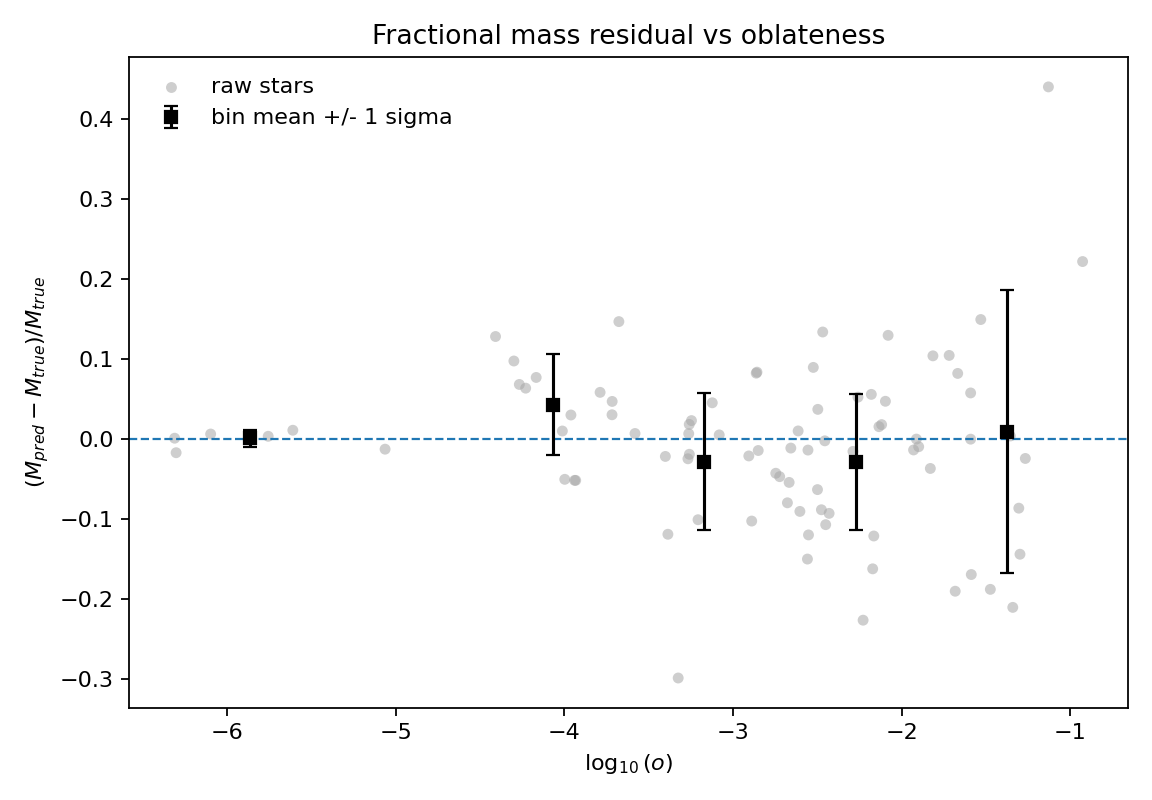
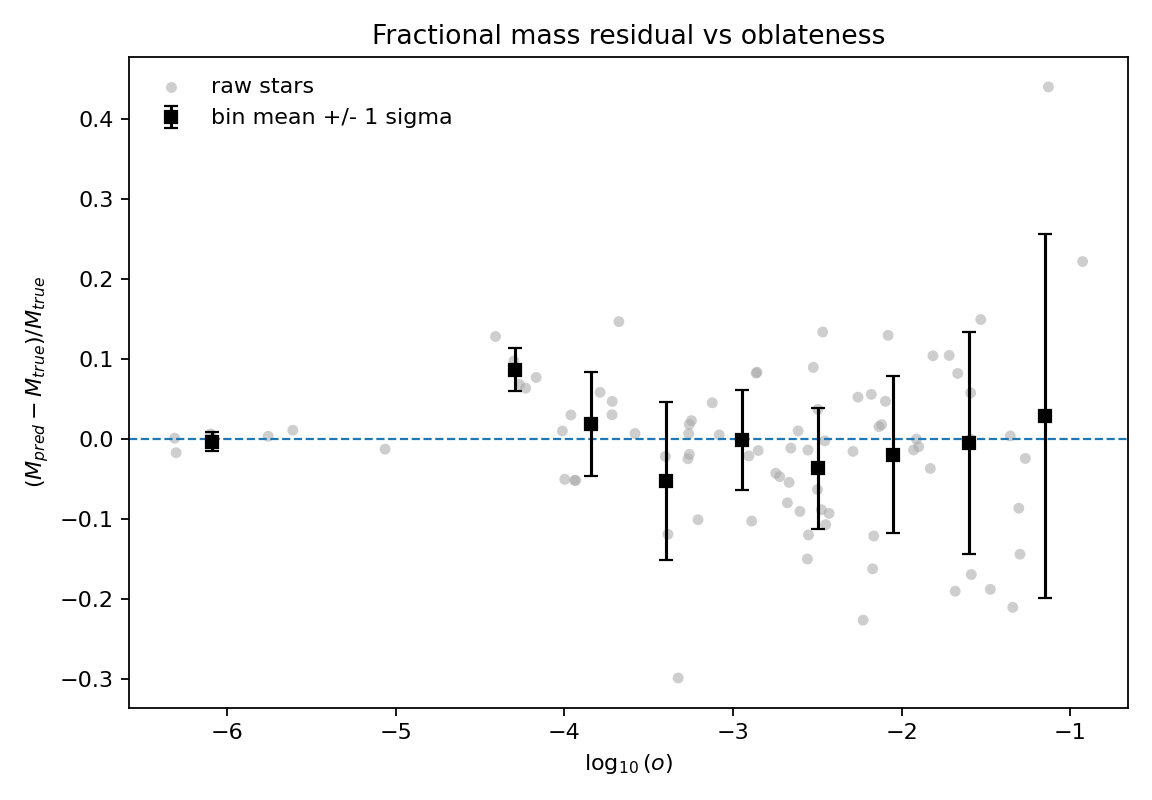
included plot bins statistics

diff --git a/BayestarML/analyse_eb_oblateness_residuals.py b/BayestarML/analyse_eb_oblateness_residuals.py
@@ -10,6 +10,7 @@ Main outputs:
     EB_mass_residuals_with_oblateness.csv
     EB_residual_correlation_summary.csv
     EB_residual_binned_by_oblateness.csv
+    EB_plot_binned_residuals_vs_log10_oblateness.csv
     EB_top_outliers_by_abs_frac_residual.csv
     plots/*.png
 
@@ -40,7 +41,7 @@ TOP_N = 30
 MASS_MIN = 0.950
 MASS_MAX = 1.500
 ROBUST = True
-N_OBLATENESS_BINS = 6
+N_OBLATENESS_BINS = 12
 MIN_BIN_COUNT = 3
 REGRESSION_PREDICTORS = ["log10_oblateness", "M", "Teff", "Meta", "logg", "L"]
 ROBUST_FEATURE_RANGES = {
@@ -206,6 +207,8 @@ def binned_scatter(
                 y_center = np.nanmedian(y_values) if bin_stat == "median" else np.nanmean(y_values)
                 y_std = np.nanstd(y_values, ddof=1) if len(g) > 1 else np.nan
                 rows.append({
+                    "plot_file": path.name,
+                    "plot_title": title,
                     "x": x,
                     "y": y,
                     "bin": str(interval),
@@ -215,6 +218,10 @@ def binned_scatter(
                     "n": len(g),
                     "y_center": y_center,
                     "y_std": y_std,
+                    "frac_residual_center": y_center if y == "frac_residual" else np.nan,
+                    "frac_residual_std": y_std if y == "frac_residual" else np.nan,
+                    "abs_frac_residual_center": y_center if y == "abs_frac_residual" else np.nan,
+                    "abs_frac_residual_std": y_std if y == "abs_frac_residual" else np.nan,
                     "statistic": bin_stat,
                 })
 
@@ -241,9 +248,24 @@ def binned_scatter(
     return binned
 
 
+def save_binned_plot_tables(tables: list[pd.DataFrame], path: Path) -> Path:
+    tables = [table for table in tables if table is not None and not table.empty]
+    if tables:
+        out = pd.concat(tables, ignore_index=True)
+    else:
+        out = pd.DataFrame(columns=[
+            "plot_file", "plot_title", "x", "y", "bin", "x_center", "x_min", "x_max", "n",
+            "y_center", "y_std", "frac_residual_center", "frac_residual_std",
+            "abs_frac_residual_center", "abs_frac_residual_std", "statistic",
+        ])
+    out.to_csv(path, index=False)
+    return path
+
+
 def make_plots(df: pd.DataFrame, outdir: Path) -> None:
     plots = outdir / "plots"
     plots.mkdir(parents=True, exist_ok=True)
+    plot_bin_tables = []
 
     scatter_with_fit(
         df, "log10_oblateness", "delta_M",
@@ -253,24 +275,26 @@ def make_plots(df: pd.DataFrame, outdir: Path) -> None:
         color_by="fill_factor",
     )
 
-    binned_scatter(
+    plot_bin_tables.append(binned_scatter(
         df, "log10_oblateness", "frac_residual",
         r"$\log_{10}(o)$", r"$(M_{pred}-M_{true})/M_{true}$",
         "Fractional mass residual vs oblateness",
         plots / "02_fractional_residual_vs_log10_oblateness.png",
         marker_color="black",
         bin_stat="mean",
-    )
+    ))
 
     if "abs_frac_residual" in df.columns:
-        binned_scatter(
+        plot_bin_tables.append(binned_scatter(
             df, "log10_oblateness", "abs_frac_residual",
             r"$\log_{10}(o)$", r"$|(M_{pred}-M_{true})/M_{true}|$",
             "Absolute fractional mass residual vs oblateness",
             plots / "02c_abs_fractional_residual_vs_log10_oblateness.png",
             marker_color="red",
             bin_stat="median",
-        )
+        ))
+
+    save_binned_plot_tables(plot_bin_tables, outdir / "EB_plot_binned_residuals_vs_log10_oblateness.csv")
 
     scatter_with_fit(
         df, "oblateness", "frac_residual",
@@ -370,25 +394,31 @@ def make_plots(df: pd.DataFrame, outdir: Path) -> None:
 def make_pretrim_plots(df: pd.DataFrame, outdir: Path) -> None:
     plots = outdir / "plots_before_mass_cut"
     plots.mkdir(parents=True, exist_ok=True)
+    plot_bin_tables = []
 
-    binned_scatter(
+    plot_bin_tables.append(binned_scatter(
         df, "log10_oblateness", "frac_residual",
         r"$\log_{10}(o)$", r"$(M_{pred}-M_{true})/M_{true}$",
         "Fractional mass residual vs oblateness before mass cut",
         plots / "02_fractional_residual_vs_log10_oblateness_before_mass_cut.png",
         marker_color="black",
         bin_stat="mean",
-    )
+    ))
 
     if "abs_frac_residual" in df.columns:
-        binned_scatter(
+        plot_bin_tables.append(binned_scatter(
             df, "log10_oblateness", "abs_frac_residual",
             r"$\log_{10}(o)$", r"$|(M_{pred}-M_{true})/M_{true}|$",
             "Absolute fractional mass residual vs oblateness before mass cut",
             plots / "02c_abs_fractional_residual_vs_log10_oblateness_before_mass_cut.png",
             marker_color="red",
             bin_stat="median",
-        )
+        ))
+
+    save_binned_plot_tables(
+        plot_bin_tables,
+        outdir / "EB_plot_binned_residuals_vs_log10_oblateness_before_mass_cut.csv",
+    )
 
     scatter_with_fit(
         df, "oblateness", "frac_residual",
@@ -720,6 +750,8 @@ def main() -> None:
         )
 
     make_plots(clean, outdir)
+    plot_bins_path = outdir / "EB_plot_binned_residuals_vs_log10_oblateness.csv"
+    pretrim_plot_bins_path = outdir / "EB_plot_binned_residuals_vs_log10_oblateness_before_mass_cut.csv"
 
     # Compact text report.
     summary_lines = []
@@ -764,6 +796,10 @@ def main() -> None:
     summary_lines.append("  Responses: frac_residual and abs_frac_residual")
     summary_lines.append("  Predictors are standardized before fitting; standard errors are HC3 robust.")
     summary_lines.append(f"  Table: {regression_path.resolve()}")
+    summary_lines.append("")
+    summary_lines.append("Plot-bin statistics:")
+    summary_lines.append(f"  Final plot bins: {plot_bins_path.resolve()}")
+    summary_lines.append(f"  Pre-mass-cut plot bins: {pretrim_plot_bins_path.resolve()}")
 
     report_path = outdir / "README_analysis_summary.txt"
     report_path.write_text("\n".join(summary_lines), encoding="utf-8")
@@ -772,6 +808,8 @@ def main() -> None:
     print(f"Output directory: {outdir.resolve()}")
     print(f"Residual table: {residual_path.resolve()}")
     print(f"Regression table: {regression_path.resolve()}")
+    print(f"Plot-bin table: {plot_bins_path.resolve()}")
+    print(f"Pre-mass-cut plot-bin table: {pretrim_plot_bins_path.resolve()}")
     print(f"Plots directory: {(outdir / 'plots').resolve()}")
     print(f"Pre-mass-cut plots directory: {(outdir / 'plots_before_mass_cut').resolve()}")
     print(f"Usable rows before mass cut: {pretrim_n} / {len(df)}")
